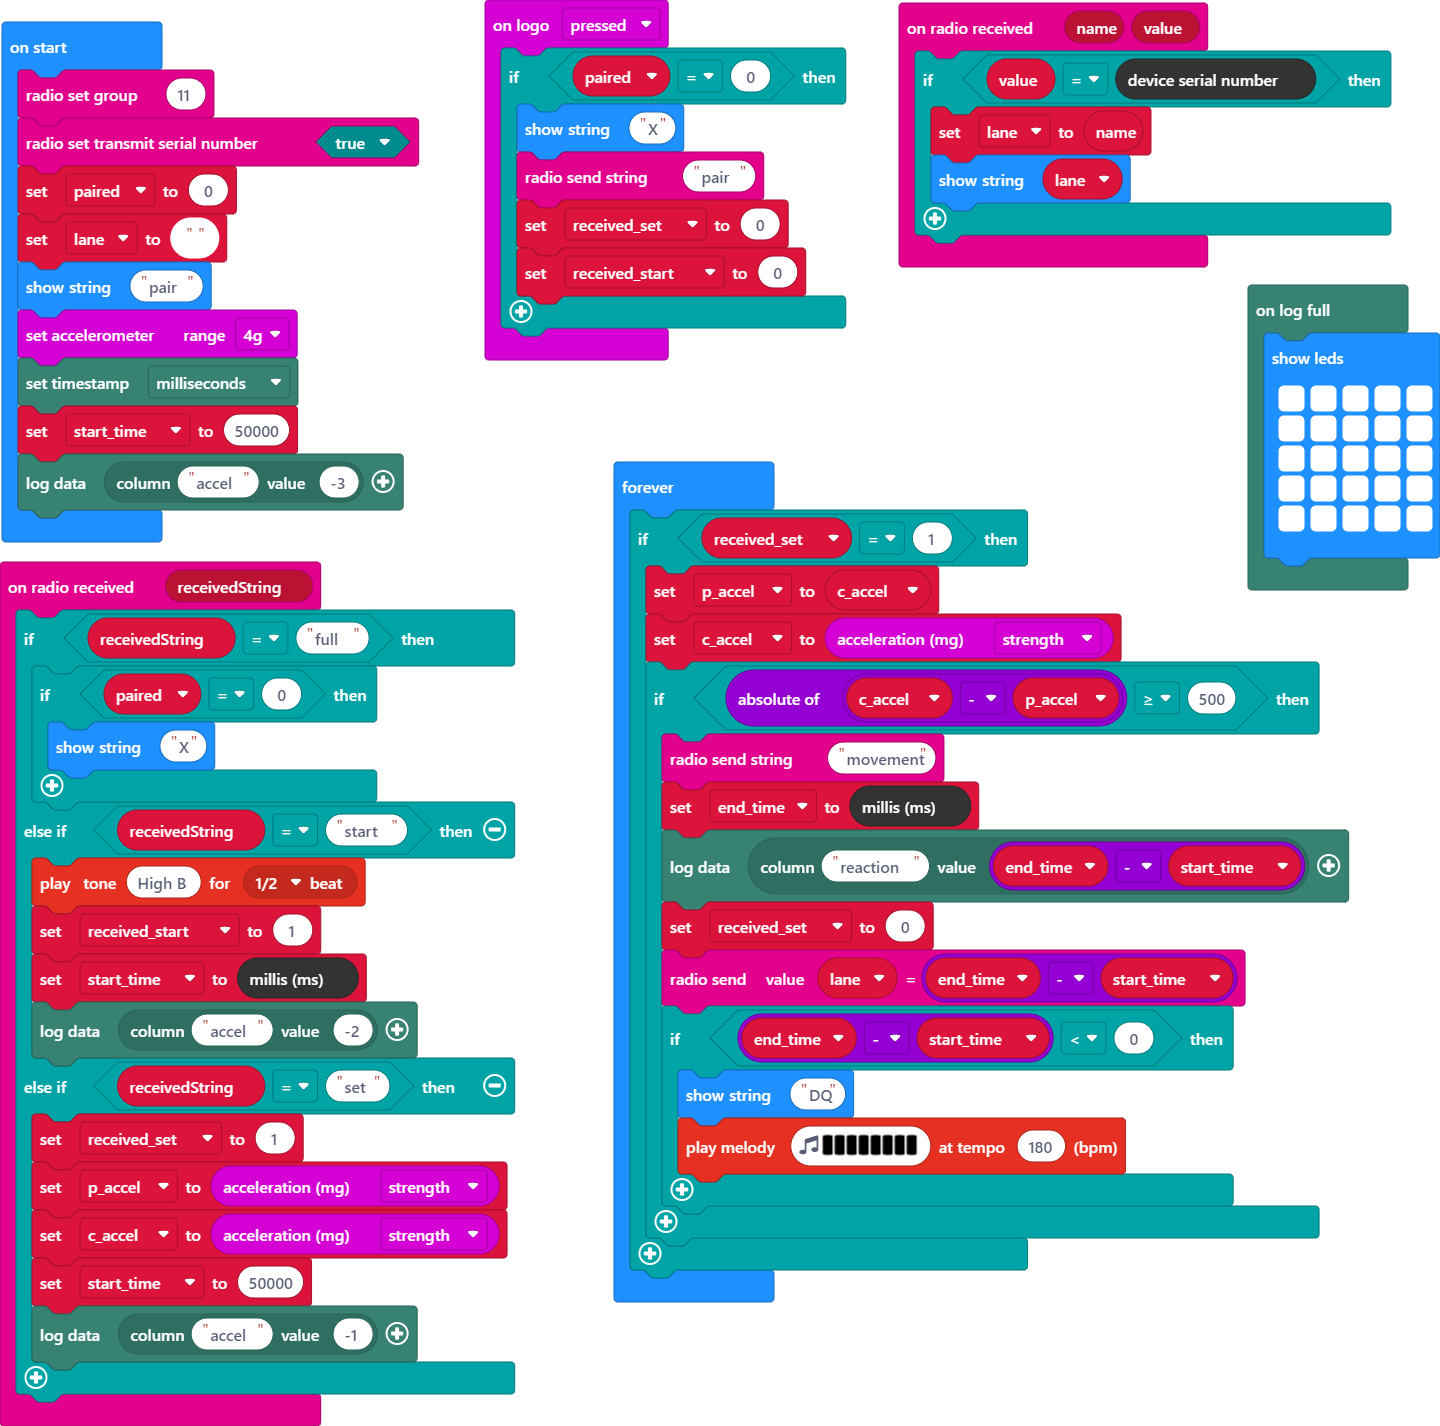
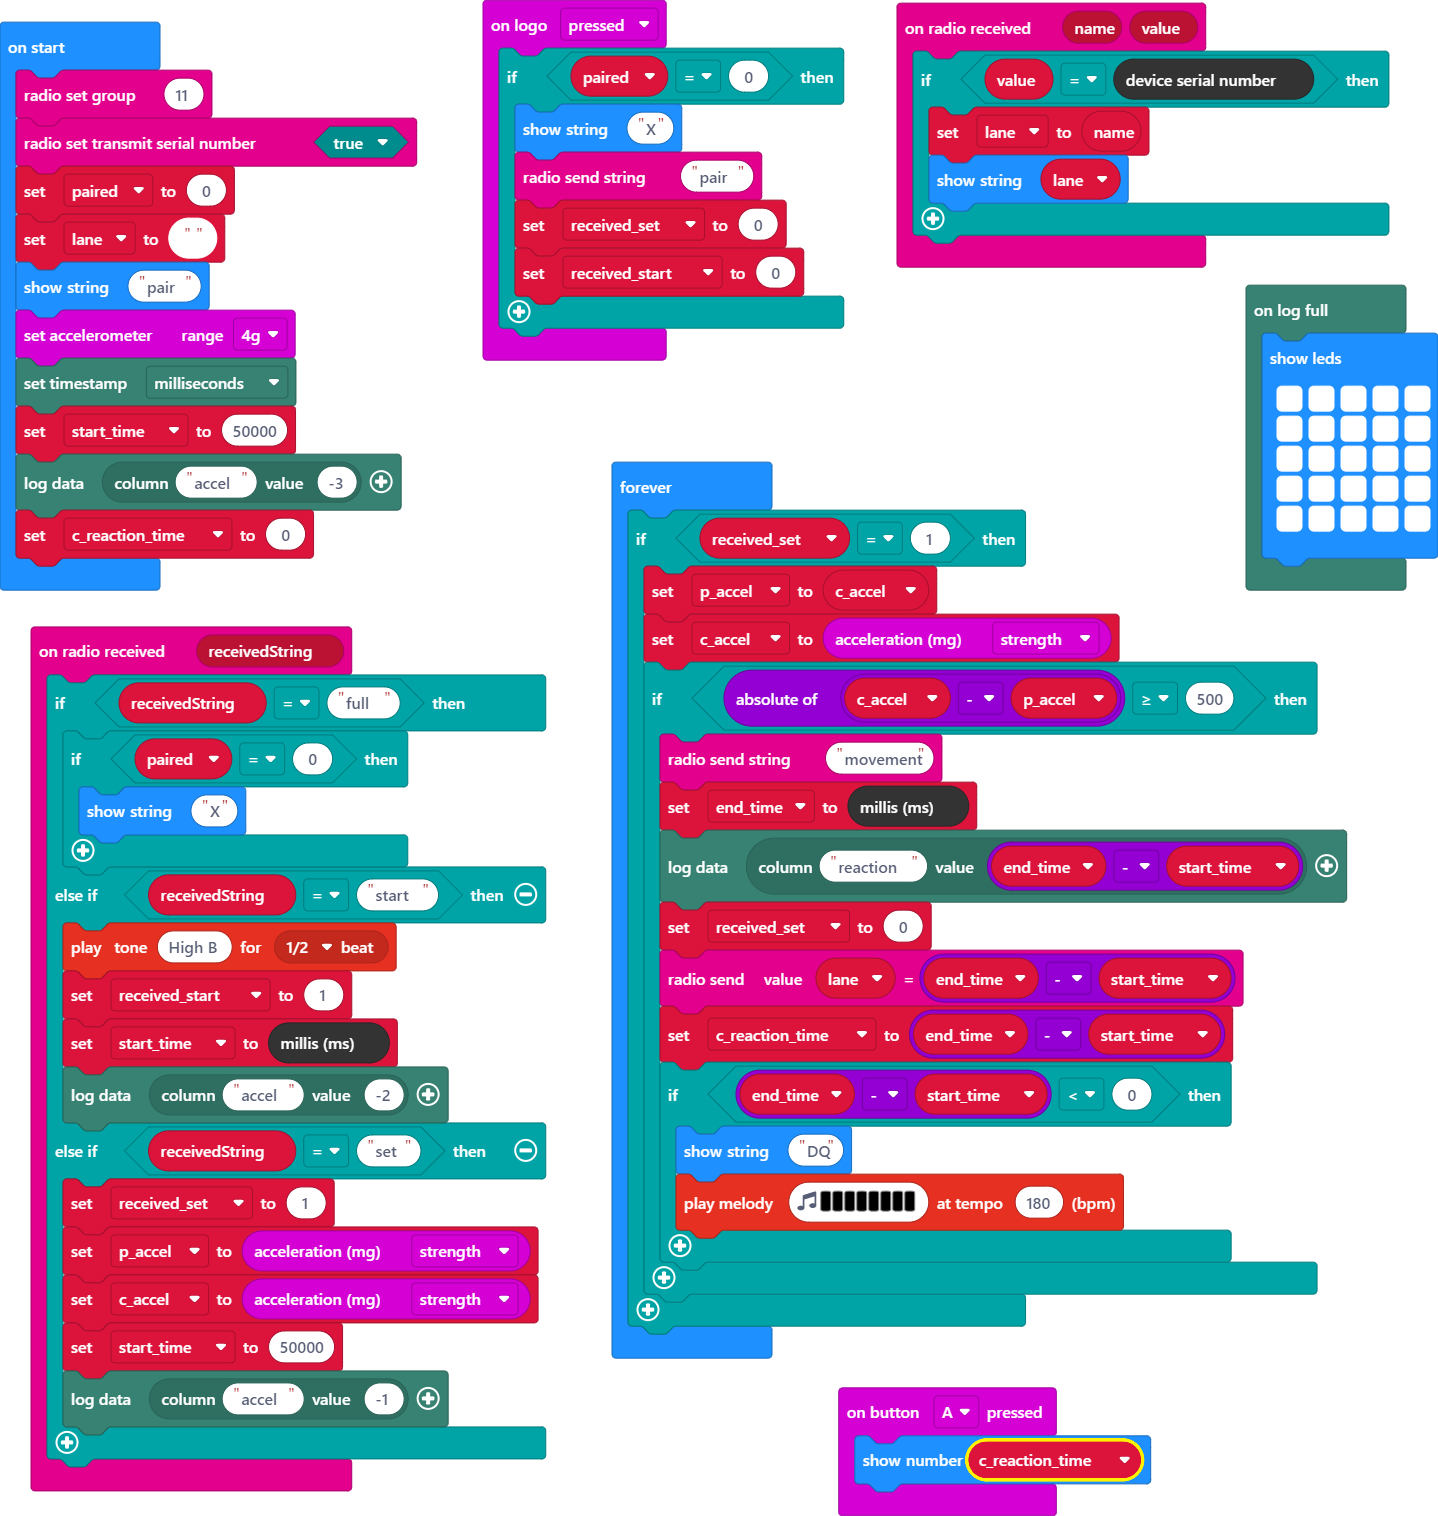
Update main.blocks, main.ts

diff --git a/main.ts b/main.ts
@@ -7,6 +7,9 @@ datalogger.onLogFull(function () {
         # # # # #
         `)
 })
+input.onButtonPressed(Button.A, function () {
+    basic.showNumber(c_reaction_time)
+})
 radio.onReceivedString(function (receivedString) {
     if (receivedString == "full") {
         if (paired == 0) {
@@ -44,6 +47,7 @@ let c_accel = 0
 let p_accel = 0
 let received_set = 0
 let received_start = 0
+let c_reaction_time = 0
 let start_time = 0
 let lane = ""
 let paired = 0
@@ -56,6 +60,7 @@ input.setAccelerometerRange(AcceleratorRange.FourG)
 datalogger.includeTimestamp(FlashLogTimeStampFormat.Milliseconds)
 start_time = 50000
 datalogger.log(datalogger.createCV("accel", -3))
+c_reaction_time = 0
 basic.forever(function () {
     if (received_set == 1) {
         p_accel = c_accel
@@ -66,6 +71,7 @@ basic.forever(function () {
             datalogger.log(datalogger.createCV("reaction", end_time - start_time))
             received_set = 0
             radio.sendValue(lane, end_time - start_time)
+            c_reaction_time = end_time - start_time
             if (end_time - start_time < 0) {
                 basic.showString("DQ")
                 music.playMelody("C5 C5 A A F F D D ", 180)
